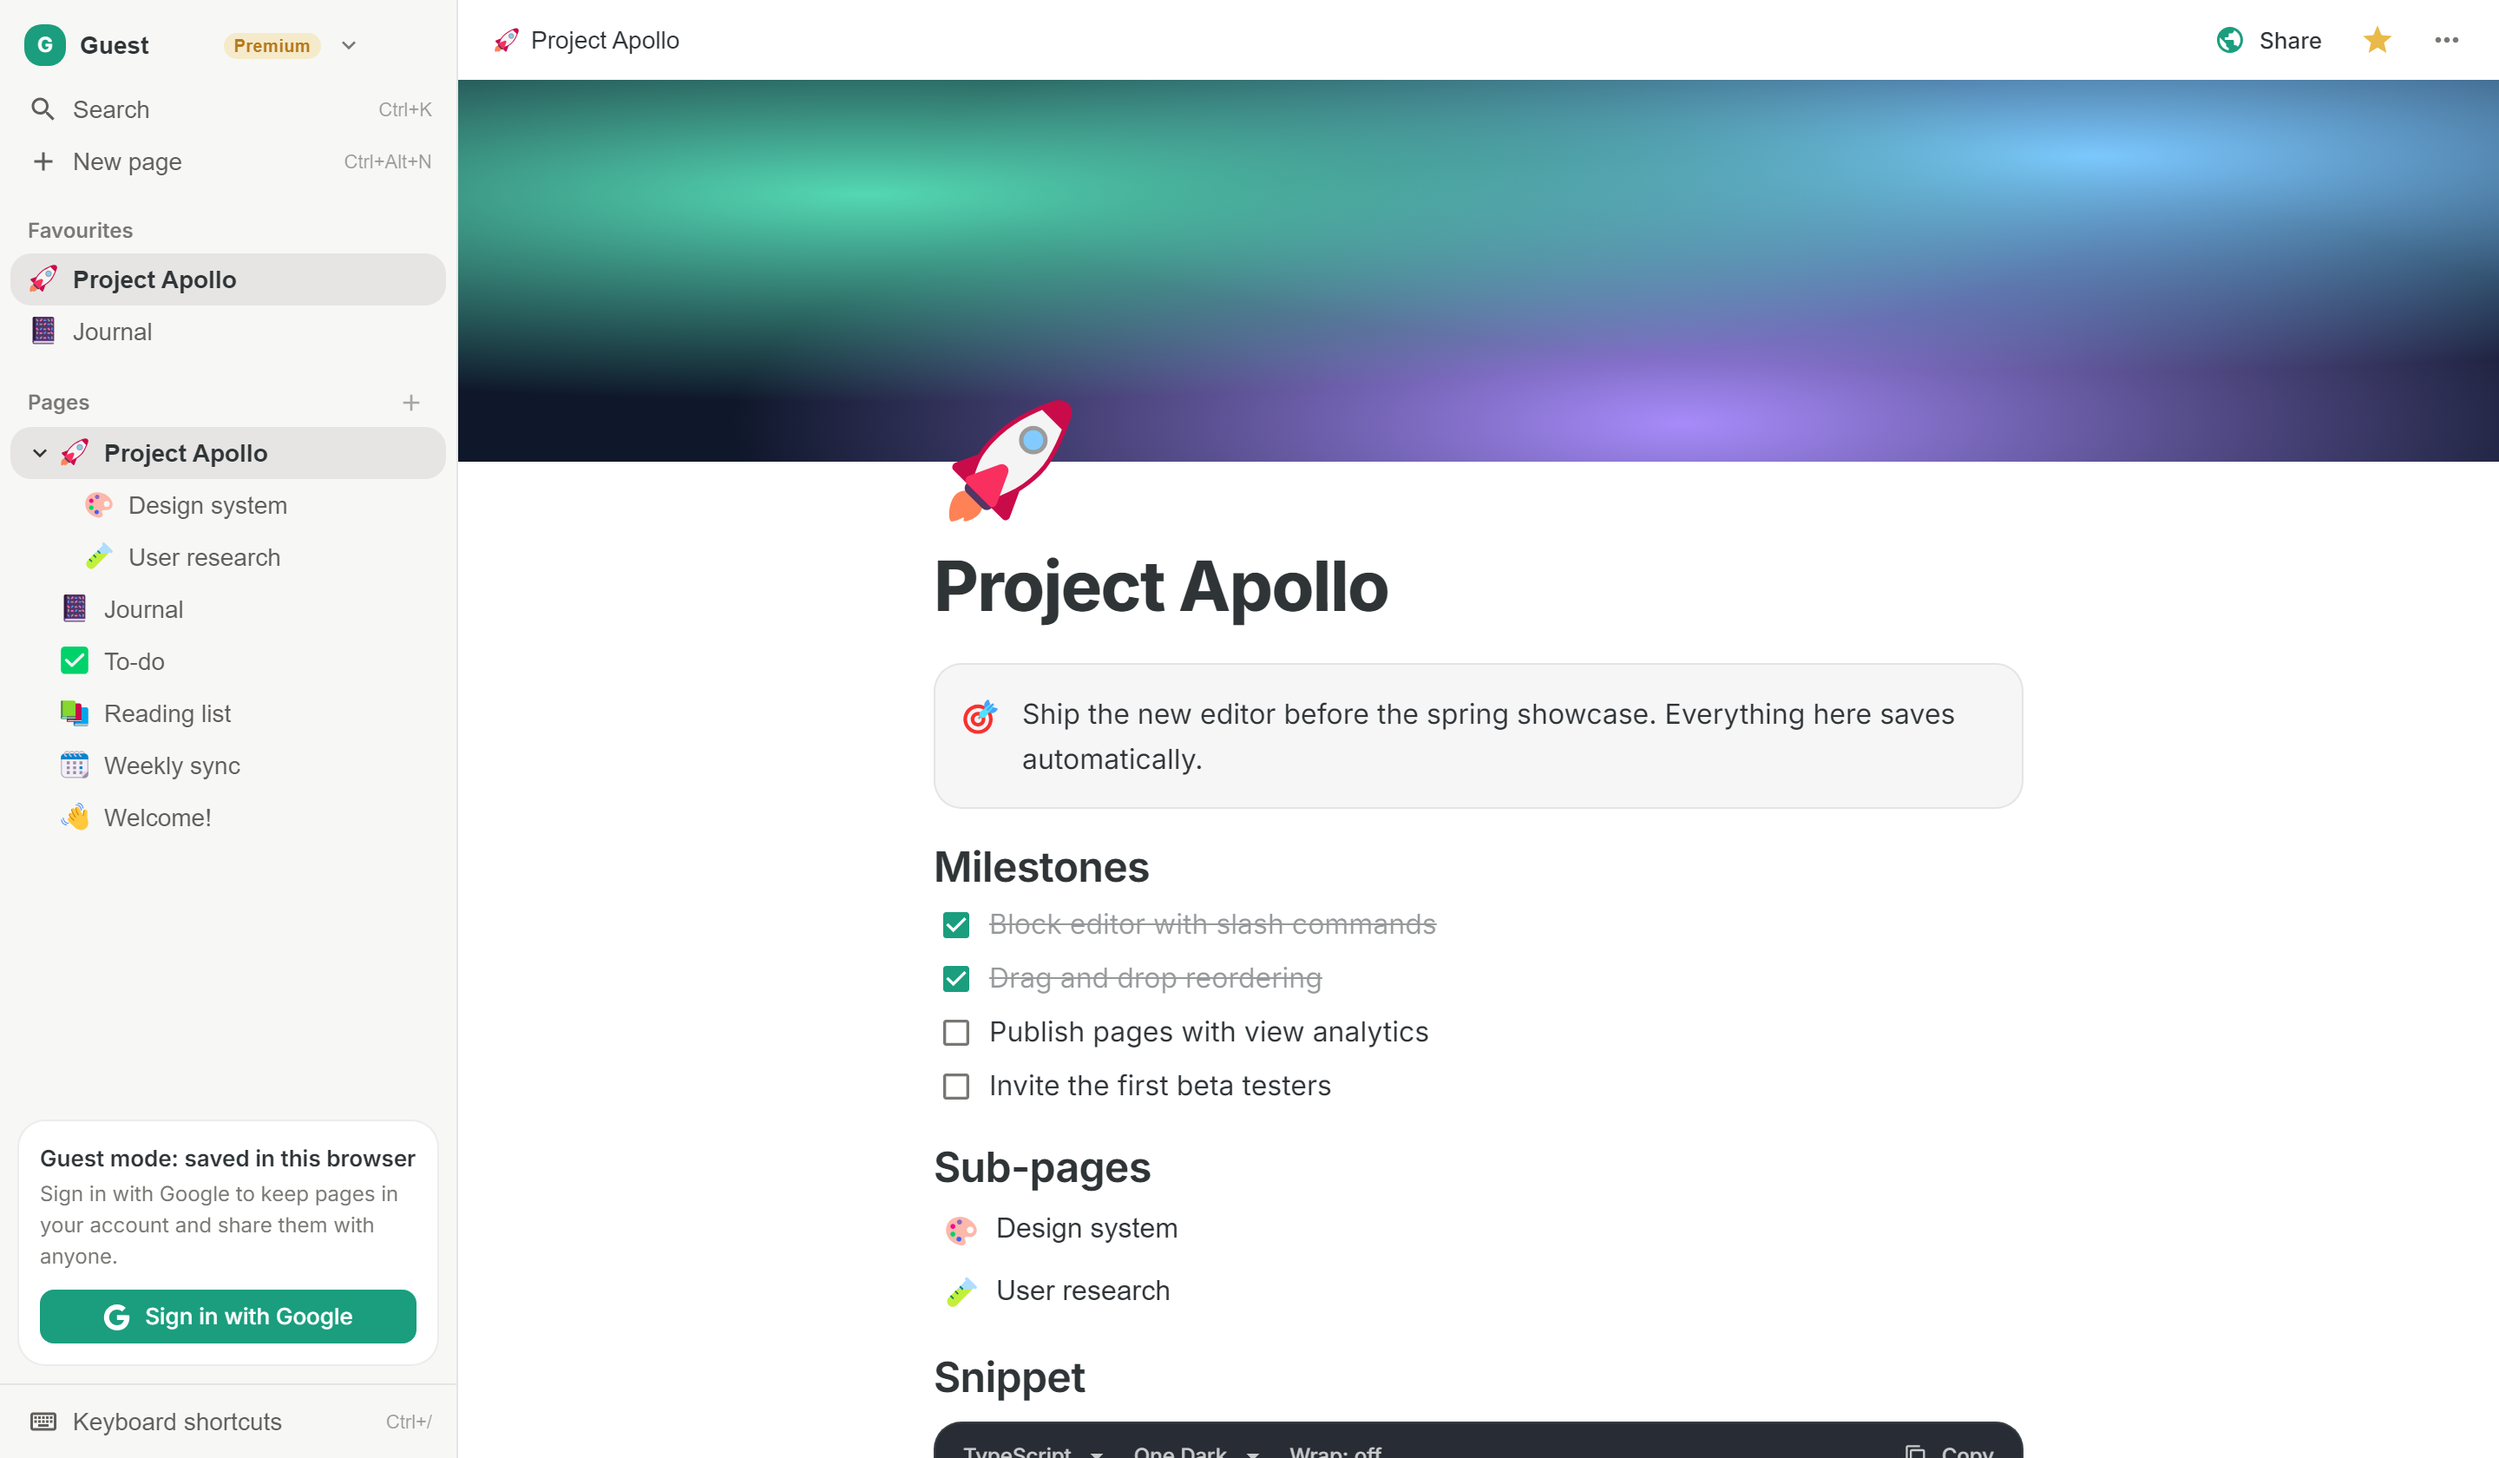
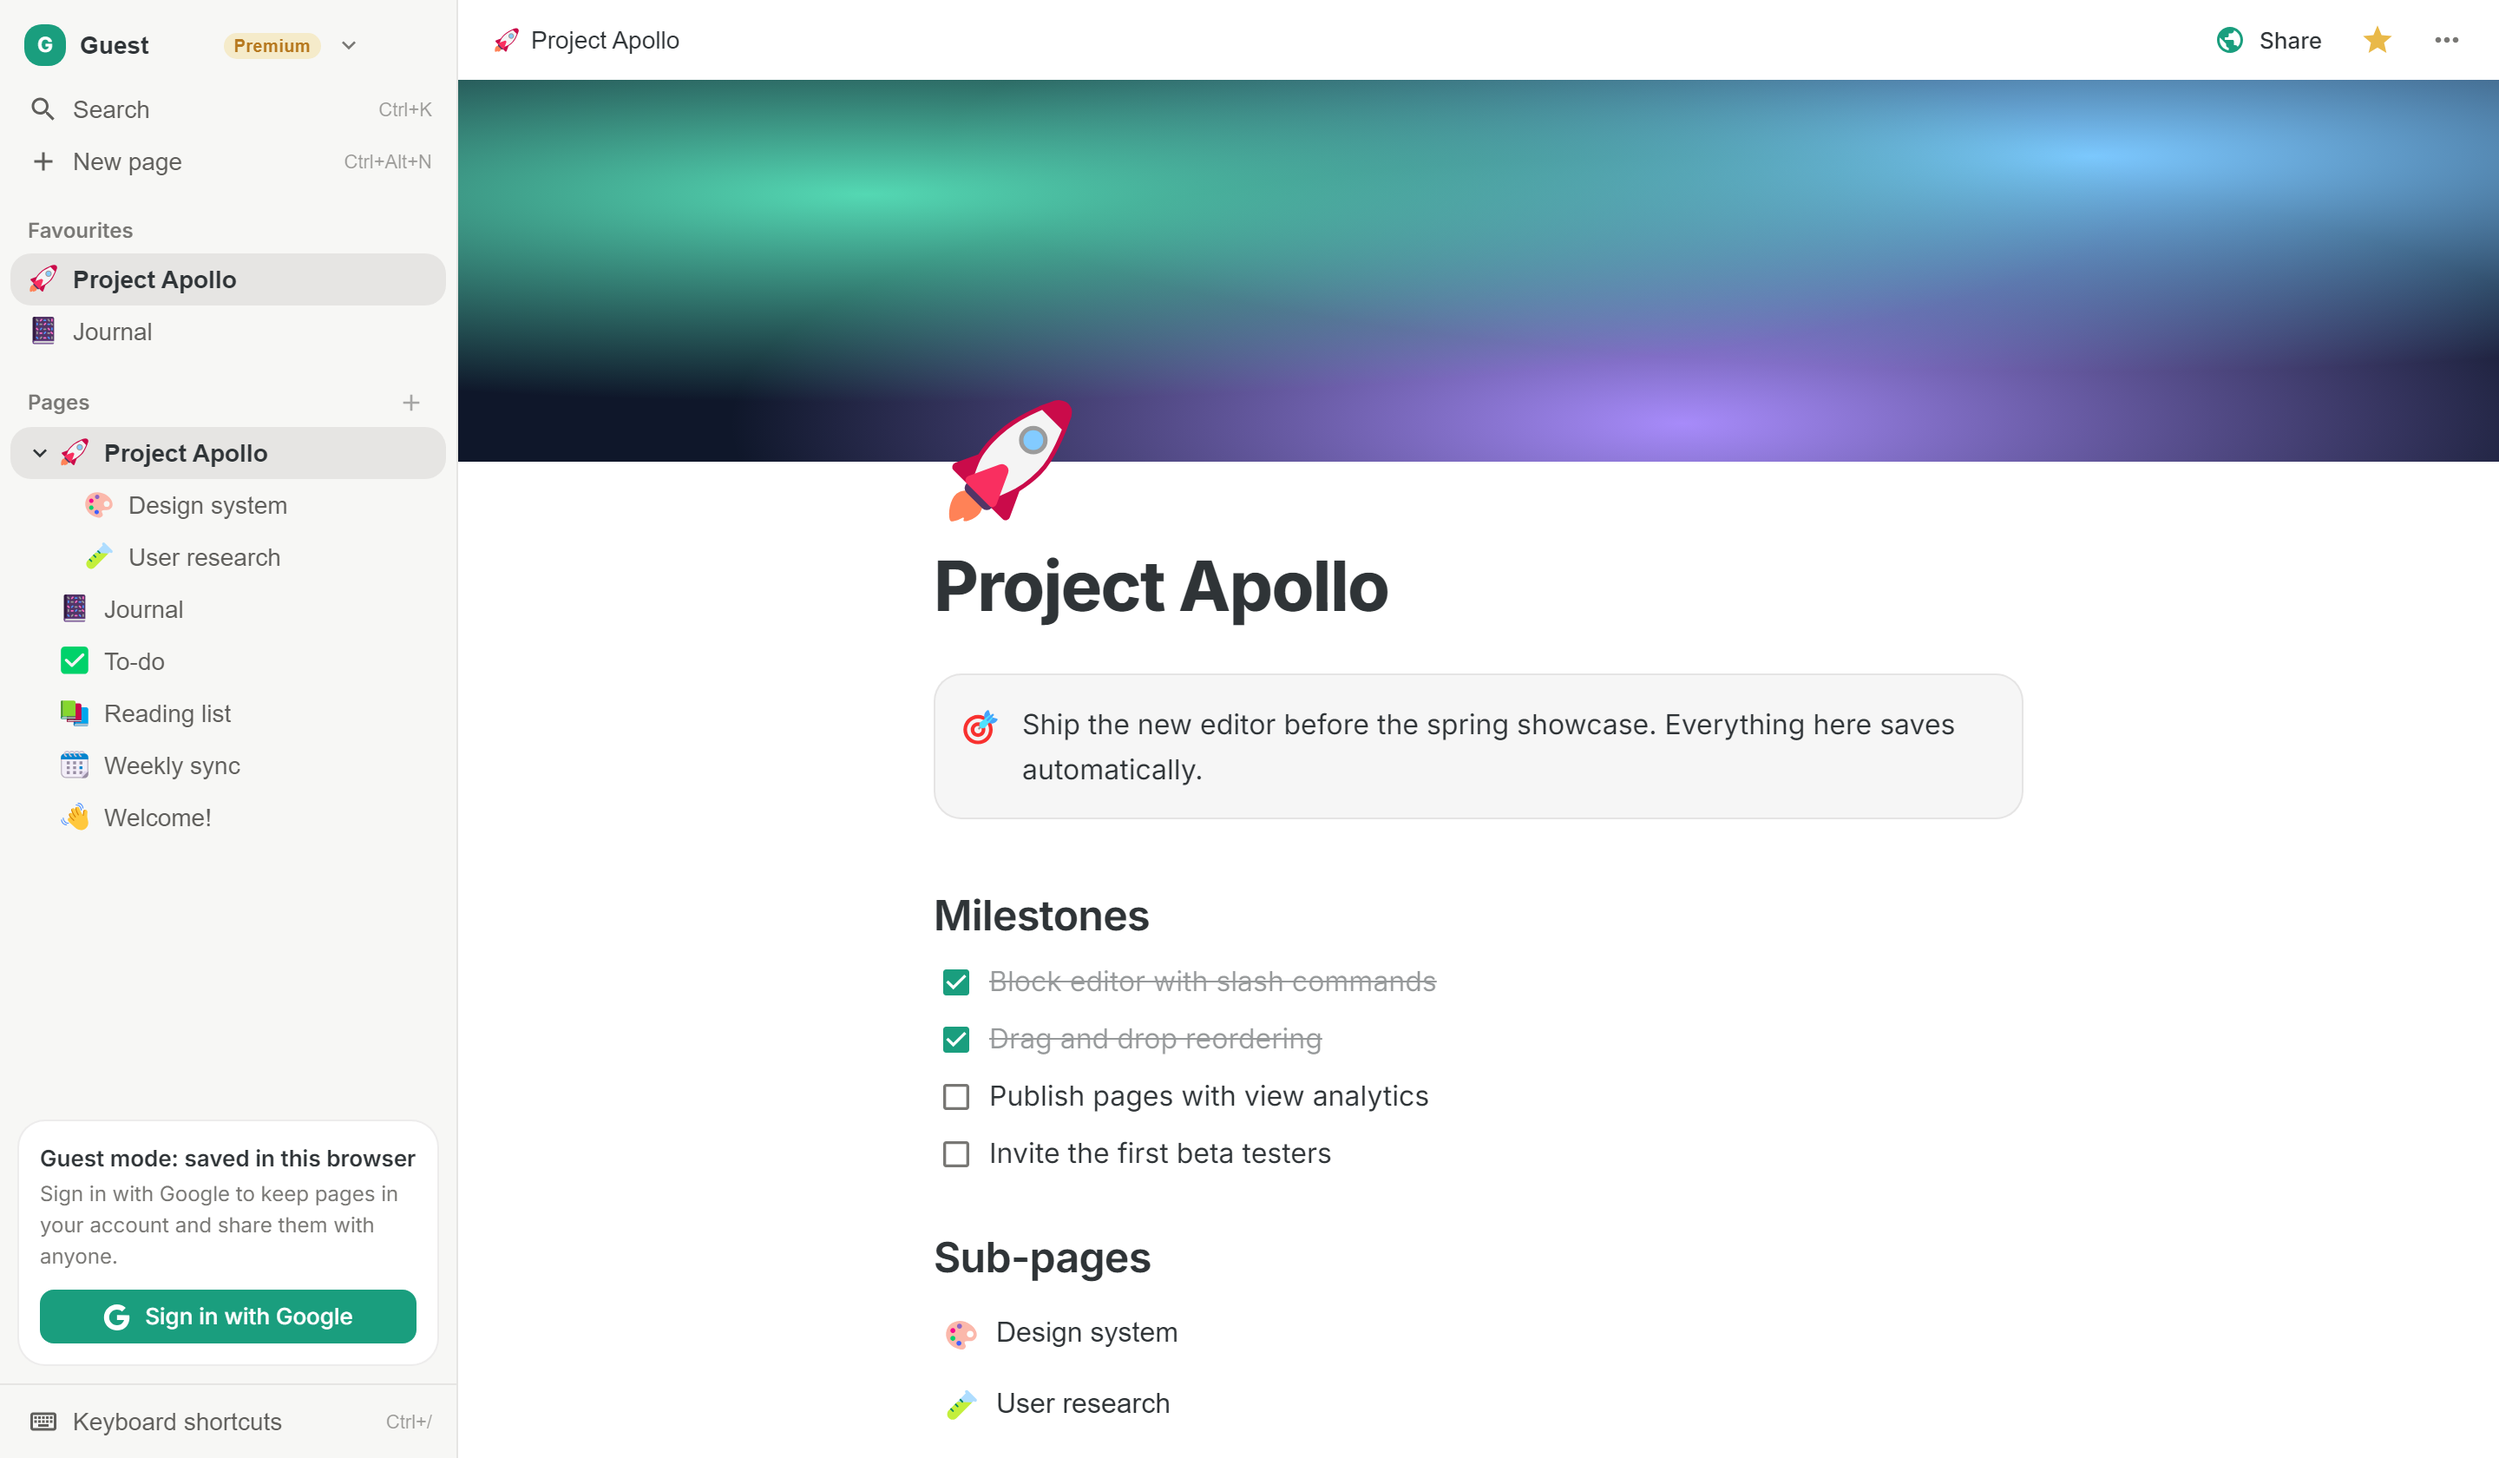
💄 style: Add more space between blocks and rename the guest button to Demo

Changed region(s): [[0.375, 0.5881, 0.8125, 1.0], [0.375, 0.4643, 0.7812, 0.5571]]

diff --git a/components/Editor/BlockRenderer.tsx b/components/Editor/BlockRenderer.tsx
@@ -28,23 +28,47 @@ const BlockRenderer = ({ block, listNumber }: { block: Block; listNumber?: numbe
 
 export default BlockRenderer
 
-/** Space above each block type (headings get more room) */
+/** Space above each block type (headings and media get more room) */
 export const blockSpacing = (type: string) => {
   switch (type) {
     case BlockType.H1:
-      return 22
+      return 34
     case BlockType.H2:
-      return 16
+      return 28
     case BlockType.H3:
-      return 10
+      return 20
     case BlockType.Callout:
     case BlockType.Code:
     case BlockType.Embed:
     case BlockType.Image:
     case BlockType.Analytics:
+      return 14
+    case BlockType.Divider:
       return 8
+    case BlockType.Todo:
+    case BlockType.Bulleted:
+    case BlockType.Numbered:
+      return 3
     default:
-      return 2
+      return 6
+  }
+}
+
+/** Space below each block type */
+export const blockSpacingBelow = (type: string) => {
+  switch (type) {
+    case BlockType.H1:
+    case BlockType.H2:
+    case BlockType.H3:
+      return 6
+    case BlockType.Callout:
+    case BlockType.Code:
+    case BlockType.Embed:
+    case BlockType.Image:
+    case BlockType.Analytics:
+      return 12
+    default:
+      return 3
   }
 }
 

diff --git a/components/Editor/BlockShell.tsx b/components/Editor/BlockShell.tsx
@@ -9,7 +9,7 @@ import Tooltip from '@mui/material/Tooltip'
 import type { Block } from '@/lib/blocks/types'
 import { useSortable } from '@dnd-kit/sortable'
 
-import { blockSpacing, gutterOffset } from './BlockRenderer'
+import { blockSpacing, blockSpacingBelow, gutterOffset } from './BlockRenderer'
 
 type Props = {
   block: Block
@@ -45,7 +45,7 @@ export const BlockShell = ({ block, children, onAdd, onOpenMenu, selected }: Pro
       sx={{
         position: 'relative',
         pt: `${blockSpacing(block.type)}px`,
-        pb: '2px',
+        pb: `${blockSpacingBelow(block.type)}px`,
         zIndex: isDragging ? 3 : 'auto',
         opacity: isDragging ? 0.55 : 1,
         '&:hover > .block-gutter, &:focus-within > .block-gutter': { opacity: 1 },
@@ -101,5 +101,5 @@ export const BlockShell = ({ block, children, onAdd, onOpenMenu, selected }: Pro
 
 /** Same spacing as BlockShell for read-only pages */
 export const StaticBlockShell = ({ block, children }: { block: Block; children: ReactNode }) => (
-  <Box sx={{ pt: `${blockSpacing(block.type)}px`, pb: '2px' }}>{children}</Box>
+  <Box sx={{ pt: `${blockSpacing(block.type)}px`, pb: `${blockSpacingBelow(block.type)}px` }}>{children}</Box>
 )

diff --git a/pages/index.tsx b/pages/index.tsx
@@ -232,7 +232,7 @@ const HomePage = () => {
           boxShadow: '0 8px 30px rgba(84,216,179,0.35)',
         }}
       >
-        Try Without Signing In
+        Demo
       </Button>
       <Button
         size="large"
@@ -383,7 +383,7 @@ const HomePage = () => {
               onClick={handleTryAsGuest}
               sx={{ borderRadius: 2, fontWeight: 600 }}
             >
-              Try Without Signing In
+              Demo
             </Button>
           </Box>
         </Box>

diff --git a/lib/data/welcomeTemplate.ts b/lib/data/welcomeTemplate.ts
@@ -55,7 +55,7 @@ export const WELCOME_ELEMENTS: Omit<StoredElement, 'element_uuid'>[] = [
   {
     type: 'Heading 3',
     content: {
-      text: "These are just the basics! There's a lot more you can do with this site. Have Fun Exploring And Remember To Always Save!",
+      text: "These are just the basics! There's a lot more you can do with this site. Have Fun Exploring, Everything Saves Automatically!",
     },
     etc: { text: 'color: #FFC107; normal; italic bold' },
   },

diff --git a/tests/guest.spec.ts b/tests/guest.spec.ts
@@ -6,7 +6,7 @@ const title = (page: Page) => page.getByRole('textbox', { name: 'Page title' })
 
 test.beforeEach(async ({ page }) => {
   await page.goto('/')
-  await page.getByRole('banner').getByRole('button', { name: 'Try Without Signing In' }).click()
+  await page.getByRole('banner').getByRole('button', { name: 'Demo' }).click()
   await expect(page).toHaveURL(/\/dashboard/)
 })
 

diff --git a/README.md b/README.md
@@ -10,7 +10,7 @@ A Notion-like notes and productivity app built with **Next.js, TypeScript and Ma
 
 <br />
 
-[🌐 Live Demo](https://opal-labs.vercel.app/) (click **Try Without Signing In**) •
+[🌐 Live Demo](https://opal-labs.vercel.app/) (click **Demo**) •
 [🛠 Backend Repo](https://github.com/AbdulDevHub/Opal-Labs-Backend)
 
 <br />
